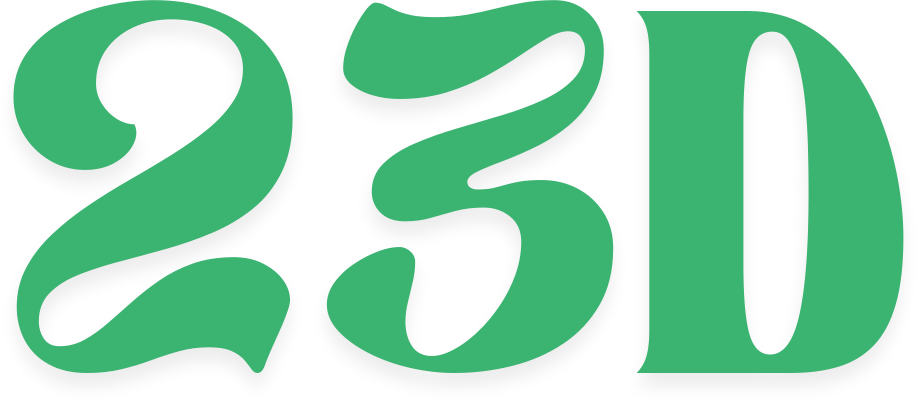
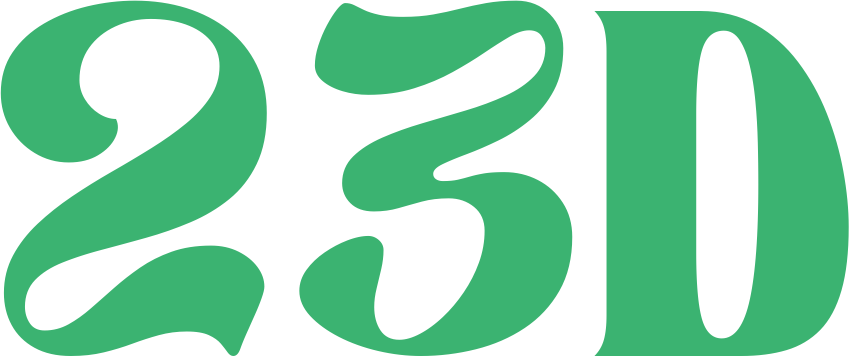
New design from PDF

diff --git a/content/services.js b/content/services.js
@@ -1,21 +1,93 @@
-// The five services. `image` is shown in the "What we do" grid on the home page
-// and on the Services page. Images are in /public/images.
+// ─────────────────────────────────────────────────────────────
+//  The five services.
+//  - image:   shown in the "What we do" grid on the home page
+//  - layout + gallery: the images on the Services page (in /public/images/services)
+//  - intro:   the paragraph; `highlight` is shown in bold green
+//  - items:   the list of what's included (read top-to-bottom, column by column)
+//  - ideal:   the "Ideal for:" line
+// ─────────────────────────────────────────────────────────────
 export const services = [
-  { title: "Brand Identity Design", image: "/images/service-brand-identity.jpg",
+  {
+    id: "brand-identity",
+    title: "Brand Identity Design",
+    image: "/images/service-brand-identity.jpg",
+    layout: "single",
+    gallery: ["/images/services/brand-identity-1.jpg"],
+    intro: { before: "A strong ", highlight: "brand identity", after: " gives your business a clear personality and a consistent visual presence. We develop cohesive brand identity systems that help businesses communicate their values and differentiate themselves in the market." },
+    items: [
+      "Brand discovery and creative direction", "Brand identity systems and visual elements", "Brand guidelines and usage rules",
+      "Logo design and logo variations", "Stationery and corporate identity design", "Marketing collateral and brand applications",
+      "Brand colour palette and typography selection", "Business cards, letterheads, and envelopes", "Signage and selected promotional materials",
+    ],
+    ideal: "New businesses, startups, educational institutions, established companies, and brands looking to refresh or redefine their identity.",
     text: "Creating distinctive identities that people remember.",
-    tags: ["Strategy", "Logo", "Visual Identity", "Guidelines"] },
-  { title: "Web Design & Development", image: "/images/service-web.jpg",
+    tags: ["Strategy", "Logo", "Visual Identity", "Guidelines"],
+  },
+  {
+    id: "web-design",
+    title: "Web Design & Development",
+    image: "/images/service-web.jpg",
+    layout: "web",
+    gallery: ["/images/services/web-1.jpg", "/images/services/web-2.jpg"],
+    intro: { before: "Your ", highlight: "website", after: " is often the first place potential customers learn about your business. We create professional, responsive websites that communicate your value, showcase your services, and guide visitors towards taking action." },
+    items: [
+      "Business and corporate websites", "Landing page design", "Website content structuring",
+      "Brand and agency websites", "Website UI/UX design", "Contact forms and enquiry integration",
+      "Portfolio and service websites", "Responsive website development", "Basic on-page SEO setup",
+    ],
+    ideal: "Service providers, consultants, manufacturers, real estate businesses, institutions, and growing brands.",
     text: "Websites that look good, work smoothly and represent your brand.",
-    tags: ["UI/UX", "Website Design", "Development", "Landing Pages"] },
-  { title: "Social Media Marketing", image: "/images/service-social.jpg",
+    tags: ["UI/UX", "Website Design", "Development", "Landing Pages"],
+  },
+  {
+    id: "social-media",
+    title: "Social Media Marketing",
+    image: "/images/service-social.jpg",
+    layout: "social",
+    gallery: ["/images/services/social-1.jpg"],
+    intro: { before: "", highlight: "Social media", after: " is more than regularly publishing posts. It is an opportunity to build brand awareness, communicate your expertise, engage with customers, and create a consistent digital presence." },
+    intro2: "At 23D Branding, we help businesses plan and manage social media content that reflects their brand identity and speaks to their intended audience.",
+    items: [
+      "Social media account audits", "Reels and short-form video content", "Profile optimisation",
+      "Content strategy and monthly planning", "Captions, copywriting, and calls to action", "Campaign and promotional creatives",
+      "Post, carousel, and story design", "Content scheduling and publishing", "Paid social media campaign management, where included",
+    ],
+    ideal: "Local businesses, doctors and clinics, hospitality businesses, real estate companies, educational institutions, retailers, and professional service providers.",
     text: "Turning your social presence into a consistent brand experience.",
-    tags: ["Strategy", "Content", "Design", "Reels", "Management"] },
-  { title: "Packaging Design", image: "/images/service-packaging.jpg",
+    tags: ["Strategy", "Content", "Design", "Reels", "Management"],
+  },
+  {
+    id: "packaging",
+    title: "Packaging Design",
+    image: "/images/service-packaging.jpg",
+    layout: "packaging",
+    gallery: ["/images/services/packaging-1.jpg", "/images/services/packaging-2.jpg", "/images/services/packaging-3.jpg", "/images/services/packaging-4.jpg"],
+    intro: { before: "", highlight: "Packaging", after: " is an important part of how customers discover, recognise, and experience a product. We create packaging designs that combine brand identity, product information, and visual appeal in a cohesive presentation." },
+    items: [
+      "Packaging concept development", "Bottle, jar, and container labels", "Print-ready artwork and layout preparation",
+      "Product label design", "Product range and variant design systems", "Brand consistency across product lines",
+      "Box and carton design", "Packaging mockups and visual presentations",
+    ],
+    ideal: "Food and beverage brands, cosmetics, personal care products, lifestyle products, retail products, and emerging consumer brands.",
     text: "Making products look as good on screen as they do in hand.",
-    tags: ["Packaging", "Product Visuals", "CGI", "3D"] },
-  { title: "Brochure Designing", image: "/images/service-brochure.jpg",
+    tags: ["Packaging", "Product Visuals", "CGI", "3D"],
+  },
+  {
+    id: "brochure",
+    title: "Brochure Designing",
+    image: "/images/service-brochure.jpg",
+    layout: "brochure",
+    gallery: ["/images/services/brochure-1.jpg", "/images/services/brochure-2.jpg", "/images/services/brochure-3.jpg"],
+    intro: { before: "A well-designed ", highlight: "brochure", after: " makes it easier for potential customers, partners, and stakeholders to understand what your business offers. We organise information into clear, visually engaging layouts that communicate your services, strengths, and brand story." },
+    items: [
+      "Corporate company profiles", "Real estate project brochures", "Digital PDF brochures",
+      "Product and service brochures", "Company presentations and capability profiles", "Print-ready brochure artwork",
+      "Institutional and school brochures", "Sales and marketing collateral",
+    ],
+    ideal: "Corporate businesses, manufacturers, real estate developers, educational institutions, consultants, and service providers.",
     text: "Information designed to communicate, not just fill pages.",
-    tags: ["Brochures", "Profiles", "Presentations", "Flyers", "Catalogues"] },
+    tags: ["Brochures", "Profiles", "Presentations", "Flyers", "Catalogues"],
+  },
 ];
 
 export const process = [

diff --git a/app/globals.css b/app/globals.css
@@ -258,11 +258,71 @@ strong { font-weight: 700; }
 .footer__chat { width: 46px; height: 46px; margin-right: 1.1rem; border-radius: 50%; background: var(--accent); color: #fff; display: grid; place-items: center; transition: transform .4s var(--ease), background .3s; }
 .footer__chat:hover { transform: scale(1.1) rotate(-6deg); background: var(--accent-hover); }
 .footer__rule { height: 1px; background: rgba(255, 255, 255, .75); margin-top: clamp(1.6rem, 3vw, 2.2rem); }
-.footer__giant { position: relative; height: 14.2vw; margin-top: 1.4vw; pointer-events: none; }
+.footer__giant { position: relative; height: 13vw; margin-top: 1.5vw; pointer-events: none; }
 .footer__giant img { position: absolute; top: 0; height: auto; opacity: .33; }
-.footer__giant-l { left: -6.1vw; width: 62.6vw; max-width: none; }
-.footer__giant-r { left: 68.6vw; width: 29.9vw; max-width: none; }
+.footer__giant-l { left: -2.6vw; width: 67.9vw; max-width: none; }
+.footer__giant-r { left: 70.8vw; width: 27.6vw; max-width: none; }
 .footer__credit { position: absolute; right: 4%; bottom: .7rem; font-size: .66rem; letter-spacing: .08em; color: #fff; }
+
+/* ─────────────── Services page ─────────────── */
+.shero { position: relative; overflow: hidden; isolation: isolate; background: #000; color: #fff; min-height: clamp(420px, 42vw, 640px); display: flex; align-items: center; justify-content: center; text-align: center; padding: clamp(6.5rem, 11vw, 8rem) 0 clamp(2.5rem, 4vw, 3.5rem); }
+.shero__strips { position: absolute; inset: 0; z-index: -1; display: grid; grid-template-columns: repeat(5, 1fr); gap: 1.46%; }
+.shero__strip { position: relative; overflow: hidden; background: #111; }
+.shero__strip img { width: 100%; height: 100%; object-fit: cover; }
+.shero__strip::after { content: ""; position: absolute; inset: 0; background: rgba(0, 0, 0, .74); transition: background .6s var(--ease); }
+.shero__inner { display: flex; flex-direction: column; align-items: center; pointer-events: none; }
+.shero__title { width: min(72vw, 920px); }
+.shero__text { max-width: 31em; margin-top: clamp(.6rem, 1.6vw, 1.2rem); font-size: clamp(.95rem, 1.42vw, 1.15rem); line-height: 1.35; color: #fff; }
+@media (hover: hover) { .shero__strips { pointer-events: auto; } .shero__strip:hover::after { background: rgba(0, 0, 0, .35); } }
+
+.svc-section { padding: clamp(2.6rem, 5.5vw, 3.6rem) 0 clamp(3rem, 6vw, 4.5rem); }
+.svc__item { border-top: 1px solid rgba(255, 255, 255, .85); }
+.svc__item:last-child { border-bottom: 1px solid rgba(255, 255, 255, .85); }
+.svc__head { width: 100%; display: flex; justify-content: space-between; align-items: center; gap: 1rem; min-height: clamp(5rem, 9.6vw, 7.6rem); text-align: left; color: #fff; }
+.svc__title { font-size: clamp(1.3rem, 2.65vw, 2.1rem); font-weight: 400; line-height: 1.2; transition: color .3s, transform .5s var(--ease); }
+.svc__head:hover .svc__title { color: var(--accent); transform: translateX(6px); }
+.svc__icon { flex-shrink: 0; width: clamp(30px, 3.5vw, 40px); height: clamp(30px, 3.5vw, 40px); color: #fff; transition: color .3s, transform .5s var(--ease); }
+.svc__icon svg { width: 100%; height: 100%; }
+.svc__head:hover .svc__icon { color: var(--accent); transform: rotate(90deg); }
+.svc__item.is-open .svc__head:hover .svc__icon { transform: rotate(180deg); }
+.svc__panel { overflow: hidden; }
+.svc__body { padding-bottom: clamp(2.5rem, 5vw, 4rem); }
+
+.svc__gallery { display: grid; gap: 0; }
+.svc__img { position: relative; overflow: hidden; background: #111; }
+.svc__img img { width: 100%; height: 100%; object-fit: cover; transition: transform 1.1s var(--ease); }
+.svc__img:hover img { transform: scale(1.04); }
+.svc__gallery--single { width: 98%; aspect-ratio: 891 / 516; }
+.svc__gallery--web { width: 94.8%; grid-template-columns: 588fr 261fr; column-gap: 1.5%; aspect-ratio: 862 / 392; }
+.svc__gallery--social { width: 95%; aspect-ratio: 863 / 501; }
+.svc__gallery--packaging { width: 98%; aspect-ratio: 891 / 502; grid-template-columns: 334fr 279fr 278fr; grid-template-rows: 279fr 223fr; }
+.svc__gallery--packaging .svc__img--1 { grid-row: 1 / 3; }
+.svc__gallery--packaging .svc__img--2 { grid-column: 2; grid-row: 1; }
+.svc__gallery--packaging .svc__img--3 { grid-column: 2; grid-row: 2; }
+.svc__gallery--packaging .svc__img--4 { grid-column: 3; grid-row: 1 / 3; }
+.svc__gallery--brochure { width: 98%; aspect-ratio: 891 / 508; grid-template-columns: 268fr 301fr 293fr; column-gap: 1.6%; }
+
+.svc__copy { max-width: 46em; margin-top: clamp(1rem, 2vw, 1.4rem); font-size: clamp(1rem, 1.55vw, 1.18rem); line-height: 1.3; color: #fff; }
+.svc__copy strong { font-weight: 700; }
+.svc__rule { width: 90%; height: 1px; background: rgba(255, 255, 255, .8); margin-top: clamp(1.4rem, 3vw, 2.2rem); }
+.svc__list { list-style: none; width: 90%; margin: clamp(1.4rem, 3vw, 2.2rem) 0 0; padding: 0 0 0 1%; display: grid; grid-template-columns: repeat(3, minmax(0, 1fr)); grid-template-rows: repeat(3, auto); grid-auto-flow: column; gap: clamp(1.4rem, 3.4vw, 2.6rem) 4%; }
+.svc__list li { max-width: 13em; font-size: clamp(.98rem, 1.65vw, 1.2rem); line-height: 1.45; color: #fff; }
+.svc__ideal { margin-top: clamp(.8rem, 1.6vw, 1.1rem); padding-left: 1%; }
+.svc__ideal h3 { margin: 0; line-height: 0; }
+.svc__ideal img { width: clamp(118px, 15.5vw, 162px); height: auto; }
+.svc__ideal p { max-width: 46em; margin-top: .25rem; font-size: clamp(.92rem, 1.3vw, 1rem); line-height: 1.35; color: #fff; }
+
+@media (max-width: 640px) {
+  .shero__title { width: 88vw; }
+  .svc__gallery--single, .svc__gallery--social { width: 100%; }
+  .svc__gallery--web { width: 100%; grid-template-columns: 1fr; aspect-ratio: auto; row-gap: .6rem; }
+  .svc__gallery--web .svc__img--1 { aspect-ratio: 588 / 392; }
+  .svc__gallery--web .svc__img--2 { aspect-ratio: 261 / 392; width: 60%; }
+  .svc__gallery--packaging, .svc__gallery--brochure { width: 100%; }
+  .svc__gallery--brochure { grid-template-columns: 1fr 1fr 1fr; column-gap: .4rem; }
+  .svc__rule, .svc__list { width: 100%; }
+  .svc__list { grid-template-columns: 1fr; grid-template-rows: none; grid-auto-flow: row; gap: .9rem; }
+}
 
 /* ─────────────── project grid (Work page) ─────────────── */
 .section--work { padding-bottom: clamp(4rem, 8vw, 6rem); }

diff --git a/components/ServiceList.js b/components/ServiceList.js
@@ -1,0 +1,98 @@
+"use client";
+import { useEffect, useState } from "react";
+import { motion, AnimatePresence } from "framer-motion";
+
+const ease = [0.22, 1, 0.36, 1];
+
+// Services accordion from the design: a title row with a ⊕ / ⊖ button.
+// Opening a row shows the images, the description, what's included and "Ideal for".
+// Several rows can be open at once. Links like /services#packaging open that row.
+export default function ServiceList({ services, defaultOpen = [0] }) {
+  const [open, setOpen] = useState(() => new Set(defaultOpen));
+
+  useEffect(() => {
+    const id = window.location.hash.slice(1);
+    const i = services.findIndex((s) => s.id === id);
+    if (i < 0) return;
+    setOpen(new Set([i]));
+    setTimeout(() => document.getElementById(id)?.scrollIntoView({ behavior: "smooth", block: "start" }), 350);
+  }, [services]);
+
+  const toggle = (i) => setOpen((prev) => {
+    const next = new Set(prev);
+    next.has(i) ? next.delete(i) : next.add(i);
+    return next;
+  });
+
+  return (
+    <div className="svc">
+      {services.map((s, i) => {
+        const isOpen = open.has(i);
+        return (
+          <motion.div key={s.id} id={s.id} className={`svc__item ${isOpen ? "is-open" : ""}`}
+            initial={{ opacity: 0, y: 30 }} whileInView={{ opacity: 1, y: 0 }}
+            viewport={{ once: true, amount: 0, margin: "0px 0px -8% 0px" }} transition={{ duration: 0.7, delay: i * 0.06, ease }}>
+            <button type="button" className="svc__head" onClick={() => toggle(i)}
+              aria-expanded={isOpen} aria-controls={`svc-${s.id}`}>
+              <span className="svc__title">{s.title}</span>
+              <span className="svc__icon" aria-hidden="true">
+                <svg viewBox="0 0 36 36" width="36" height="36">
+                  <circle cx="18" cy="18" r="16" fill="none" stroke="currentColor" strokeWidth="3" />
+                  <path d="M10.5 18h15" stroke="currentColor" strokeWidth="3" strokeLinecap="round" />
+                  <motion.path d="M18 10.5v15" stroke="currentColor" strokeWidth="3" strokeLinecap="round"
+                    initial={false} animate={{ scaleY: isOpen ? 0 : 1, opacity: isOpen ? 0 : 1 }}
+                    style={{ originX: "18px", originY: "18px" }} transition={{ duration: 0.35, ease }} />
+                </svg>
+              </span>
+            </button>
+
+            <AnimatePresence initial={false}>
+              {isOpen && (
+                <motion.div id={`svc-${s.id}`} className="svc__panel"
+                  initial={{ height: 0, opacity: 0 }} animate={{ height: "auto", opacity: 1 }} exit={{ height: 0, opacity: 0 }}
+                  transition={{ height: { duration: 0.7, ease }, opacity: { duration: 0.4 } }}>
+                  <div className="svc__body">
+                    <div className={`svc__gallery svc__gallery--${s.layout}`}>
+                      {s.gallery.map((src, k) => (
+                        <motion.div key={src} className={`svc__img svc__img--${k + 1}`}
+                          initial={{ clipPath: "inset(100% 0% 0% 0%)" }} animate={{ clipPath: "inset(0% 0% 0% 0%)" }}
+                          transition={{ duration: 1, delay: 0.15 + k * 0.1, ease }}>
+                          {/* eslint-disable-next-line @next/next/no-img-element */}
+                          <img src={src} alt={`${s.title} work by 23D Branding`} loading="lazy" />
+                        </motion.div>
+                      ))}
+                    </div>
+
+                    <motion.div className="svc__copy" initial={{ opacity: 0, y: 20 }} animate={{ opacity: 1, y: 0 }}
+                      transition={{ duration: 0.7, delay: 0.35, ease }}>
+                      <p>{s.intro.before}<strong className="accent">{s.intro.highlight}</strong>{s.intro.after}</p>
+                      {s.intro2 && <p>{s.intro2}</p>}
+                    </motion.div>
+
+                    <div className="svc__rule" />
+                    <ul className="svc__list">
+                      {s.items.map((item, k) => (
+                        <motion.li key={item} initial={{ opacity: 0, y: 14 }} animate={{ opacity: 1, y: 0 }}
+                          transition={{ duration: 0.5, delay: 0.45 + k * 0.04, ease }}>{item}</motion.li>
+                      ))}
+                    </ul>
+                    <div className="svc__rule" />
+
+                    <motion.div className="svc__ideal" initial={{ opacity: 0, y: 14 }} animate={{ opacity: 1, y: 0 }}
+                      transition={{ duration: 0.6, delay: 0.7, ease }}>
+                      <h3>
+                        {/* eslint-disable-next-line @next/next/no-img-element */}
+                        <img src="/images/ideal-for.png" alt="Ideal for:" width={444} height={76} />
+                      </h3>
+                      <p>{s.ideal}</p>
+                    </motion.div>
+                  </div>
+                </motion.div>
+              )}
+            </AnimatePresence>
+          </motion.div>
+        );
+      })}
+    </div>
+  );
+}

diff --git a/app/services/page.js b/app/services/page.js
@@ -1,30 +1,21 @@
-import Link from "next/link";
 import { services } from "@/content/services";
 import { site } from "@/content/site";
-import FadeIn from "@/components/FadeIn";
-import ServiceGallery from "@/components/ServiceGallery";
-import ServicesAccordion from "@/components/ServicesAccordion";
+import ServicesHero from "@/components/ServicesHero";
+import ServiceList from "@/components/ServiceList";
+import CtaSpotlight from "@/components/CtaSpotlight";
 
 export const metadata = { title: "Services" };
 
 export default function ServicesPage() {
   return (
     <>
-      <section className="page-hero">
+      <ServicesHero text={site.servicesIntro} />
+      <section className="dark svc-section">
         <div className="container">
-          <FadeIn as="h1" className="page-title">What we do</FadeIn>
-          <FadeIn as="p" className="lead" delay={0.1}>{site.intro.text}</FadeIn>
+          <ServiceList services={services} />
         </div>
       </section>
-      <section className="dark section section--top0">
-        <div className="container"><ServiceGallery services={services} /></div>
-      </section>
-      <section className="container section"><ServicesAccordion services={services} /></section>
-      <section className="section container cta">
-        <FadeIn as="h2" className="sec-title">{site.cta.ask}</FadeIn>
-        <FadeIn as="p" className="lead">{site.cta.line}</FadeIn>
-        <FadeIn><Link href="/contact" className="btn btn--green">{site.cta.button}<span aria-hidden="true">➔</span></Link></FadeIn>
-      </section>
+      <CtaSpotlight />
     </>
   );
 }

diff --git a/components/ServicesHero.js b/components/ServicesHero.js
@@ -1,0 +1,32 @@
+"use client";
+import { motion } from "framer-motion";
+import ImageHeading from "./ImageHeading";
+
+const ease = [0.22, 1, 0.36, 1];
+const strips = [1, 2, 3, 4, 5].map((n) => `/images/services/hero-strip-${n}.jpg`);
+
+// Services hero: five dark image strips behind the "What we do" lettering.
+// The strips slide in one after another; hovering a strip lights it up.
+export default function ServicesHero({ text }) {
+  return (
+    <section className="shero">
+      <div className="shero__strips" aria-hidden="true">
+        {strips.map((src, i) => (
+          <motion.div key={src} className="shero__strip"
+            initial={{ clipPath: i % 2 ? "inset(0% 0% 100% 0%)" : "inset(100% 0% 0% 0%)" }}
+            animate={{ clipPath: "inset(0% 0% 0% 0%)" }}
+            transition={{ duration: 1.2, delay: 0.1 + i * 0.1, ease }}>
+            <motion.img src={src} alt="" initial={{ scale: 1.25 }} animate={{ scale: 1 }}
+              transition={{ duration: 1.8, delay: 0.1 + i * 0.1, ease }} />
+          </motion.div>
+        ))}
+      </div>
+      <div className="container shero__inner">
+        <ImageHeading as="h1" onLoad src="/images/what-we-do.png" alt="What we do" width={1515} height={218}
+          className="shero__title" delay={0.6} />
+        <motion.p className="shero__text" initial={{ opacity: 0, y: 20 }} animate={{ opacity: 1, y: 0 }}
+          transition={{ duration: 0.9, delay: 1, ease }}>{text}</motion.p>
+      </div>
+    </section>
+  );
+}

diff --git a/components/ServiceGallery.js b/components/ServiceGallery.js
@@ -12,7 +12,7 @@ function Tile({ s, ratio, index = 0, wide = false }) {
   const y = useTransform(scrollYProgress, [0, 1], ["-2.5%", "2.5%"]);
   return (
     <motion.figure ref={ref} className={`stile ${wide ? "stile--wide" : ""}`} initial="hidden" whileInView="show" viewport={{ once: true, amount: 0.15 }}>
-      <Link href="/services" className="stile__link" aria-label={s.title}>
+      <Link href={s.id ? `/services#${s.id}` : "/services"} className="stile__link" aria-label={s.title}>
         <motion.div className="stile__media" style={{ aspectRatio: ratio }}
           variants={{ hidden: { clipPath: "inset(100% 0% 0% 0%)" }, show: { clipPath: "inset(0% 0% 0% 0%)", transition: { duration: 1.2, delay: (index % 2) * 0.12, ease } } }}>
           <motion.div className="stile__parallax" style={{ y }}>

diff --git a/components/Footer.js b/components/Footer.js
@@ -8,8 +8,8 @@ export default function Footer() {
   const ref = useRef(null);
   const { scrollYProgress } = useScroll({ target: ref, offset: ["start end", "end end"] });
   // the giant "BRANDING 23D" words slide towards each other as the footer comes into view
-  const leftX = useTransform(scrollYProgress, [0, 1], ["-8%", "0%"]);
-  const rightX = useTransform(scrollYProgress, [0, 1], ["12%", "0%"]);
+  const leftX = useTransform(scrollYProgress, [0, 1], ["-6%", "0%"]);
+  const rightX = useTransform(scrollYProgress, [0, 1], ["10%", "0%"]);
   const chat = site.whatsapp || "/contact";
   const chatExternal = chat.startsWith("http");
 

diff --git a/content/site.js b/content/site.js
@@ -23,6 +23,8 @@ export const site = {
     text2: "At 23D Branding, we combine thoughtful design with practical digital solutions to help businesses communicate with clarity, build trust, and create a consistent presence across platforms.",
   },
 
+  servicesIntro: "From identity to digital presence, we bring the important pieces of your brand together.",
+
   clientsTagline: "Built on Collaboration. Driven by Creativity.",
 
   cta: { ask: "Have brand in mind?", line: "Let’s make it happen.", button: "Start the Project" },
